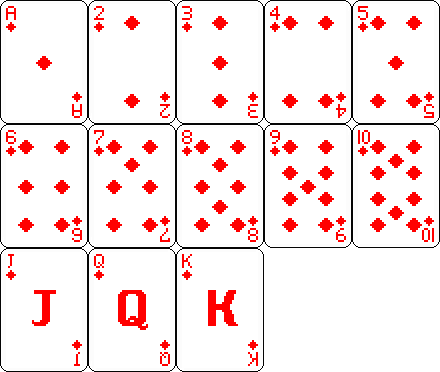
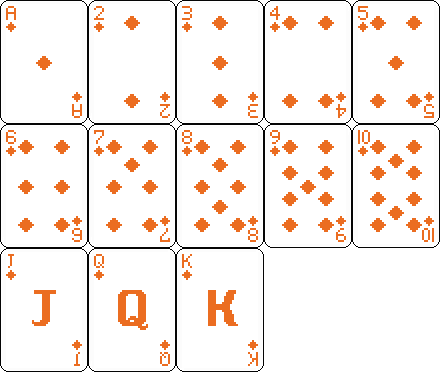
Color coded cards for UI and general play

diff --git a/UI/CardTrackerBox.cs b/UI/CardTrackerBox.cs
@@ -59,11 +59,11 @@ public partial class CardTracker : Control
         return suit switch
         {
             //Placeholder
-            Suit.Hearts => new Color(1, 0, 0), // Red
-            Suit.Diamonds => new Color(0, 1, 0), // Green
-            Suit.Clubs => new Color(0, 0, 1), // Blue
-            Suit.Spades => new Color(0, 0, 0), // Black
-            _ => new Color(1, 1, 1) // White
+            Suit.Hearts => new Color(1.0f, 0.0f, 0.0f, 1.0f), // Red
+            Suit.Diamonds => new Color(1.0f, 0.6f, 0.0f), // Orange
+            Suit.Clubs => new Color(0.0f, 0.0f, 0.0f), // Black
+            Suit.Spades => new Color(0.0f, 0.65f, 0.0f), // Dark Green
+            _ => new Color(1.0f, 1.0f, 1.0f) // White
         };
     }
 
@@ -82,7 +82,7 @@ public partial class CardTracker : Control
 
 public partial class CardTrackerRow : HBoxContainer
 {
-    public required CardBack CardBack; //Used for row icon
+    public required CardBack CardBack; //Used for row position + icon
     private List<Card>? cards;
 
     public override void _Ready()
